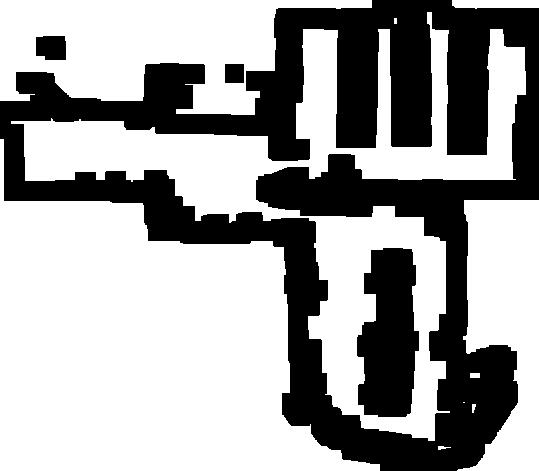
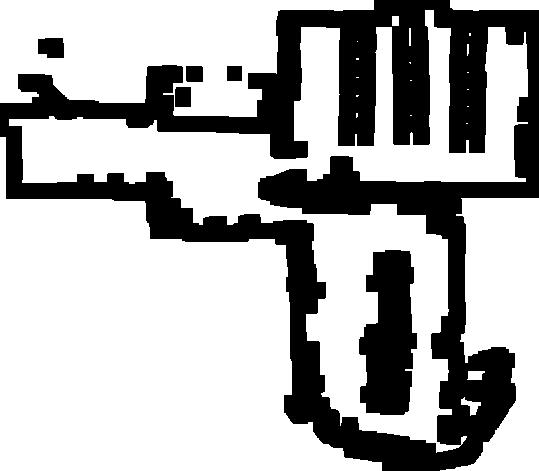
Alsi Rahul

diff --git a/A-star/Astar.m b/A-star/Astar.m
@@ -79,7 +79,7 @@ while count>0
             nx = currx+i;
             ny = curry+j;
             %calling radius check in next line, choose most optimum radius.
-            if ~(i==0&&j==0) && nx>0 && nx<=Height && ny>0 && ny<=Width && radius_check(MAP,nx,ny,1)==true
+            if ~(i==0&&j==0) && nx>0 && nx<=Height && ny>0 && ny<=Width && radius_check(MAP,nx,ny,2)==true
                 if (Close(nx,ny)==1)
                     continue;
                 end;

diff --git a/A-star/mapops.m b/A-star/mapops.m
@@ -3,7 +3,7 @@ imwrite(im, 'colour.jpg');
 im = im2bw(rgb2gray(im));
 im = imcomplement(im);
 im1 = imcomplement(im);
-x = 18; % choose appropriate value
+x = 14; % choose appropriate value
 im1 = safety(im1,x);
 imwrite(im1,'padded.bmp');
 imwrite(im1, 'padded.jpg');
